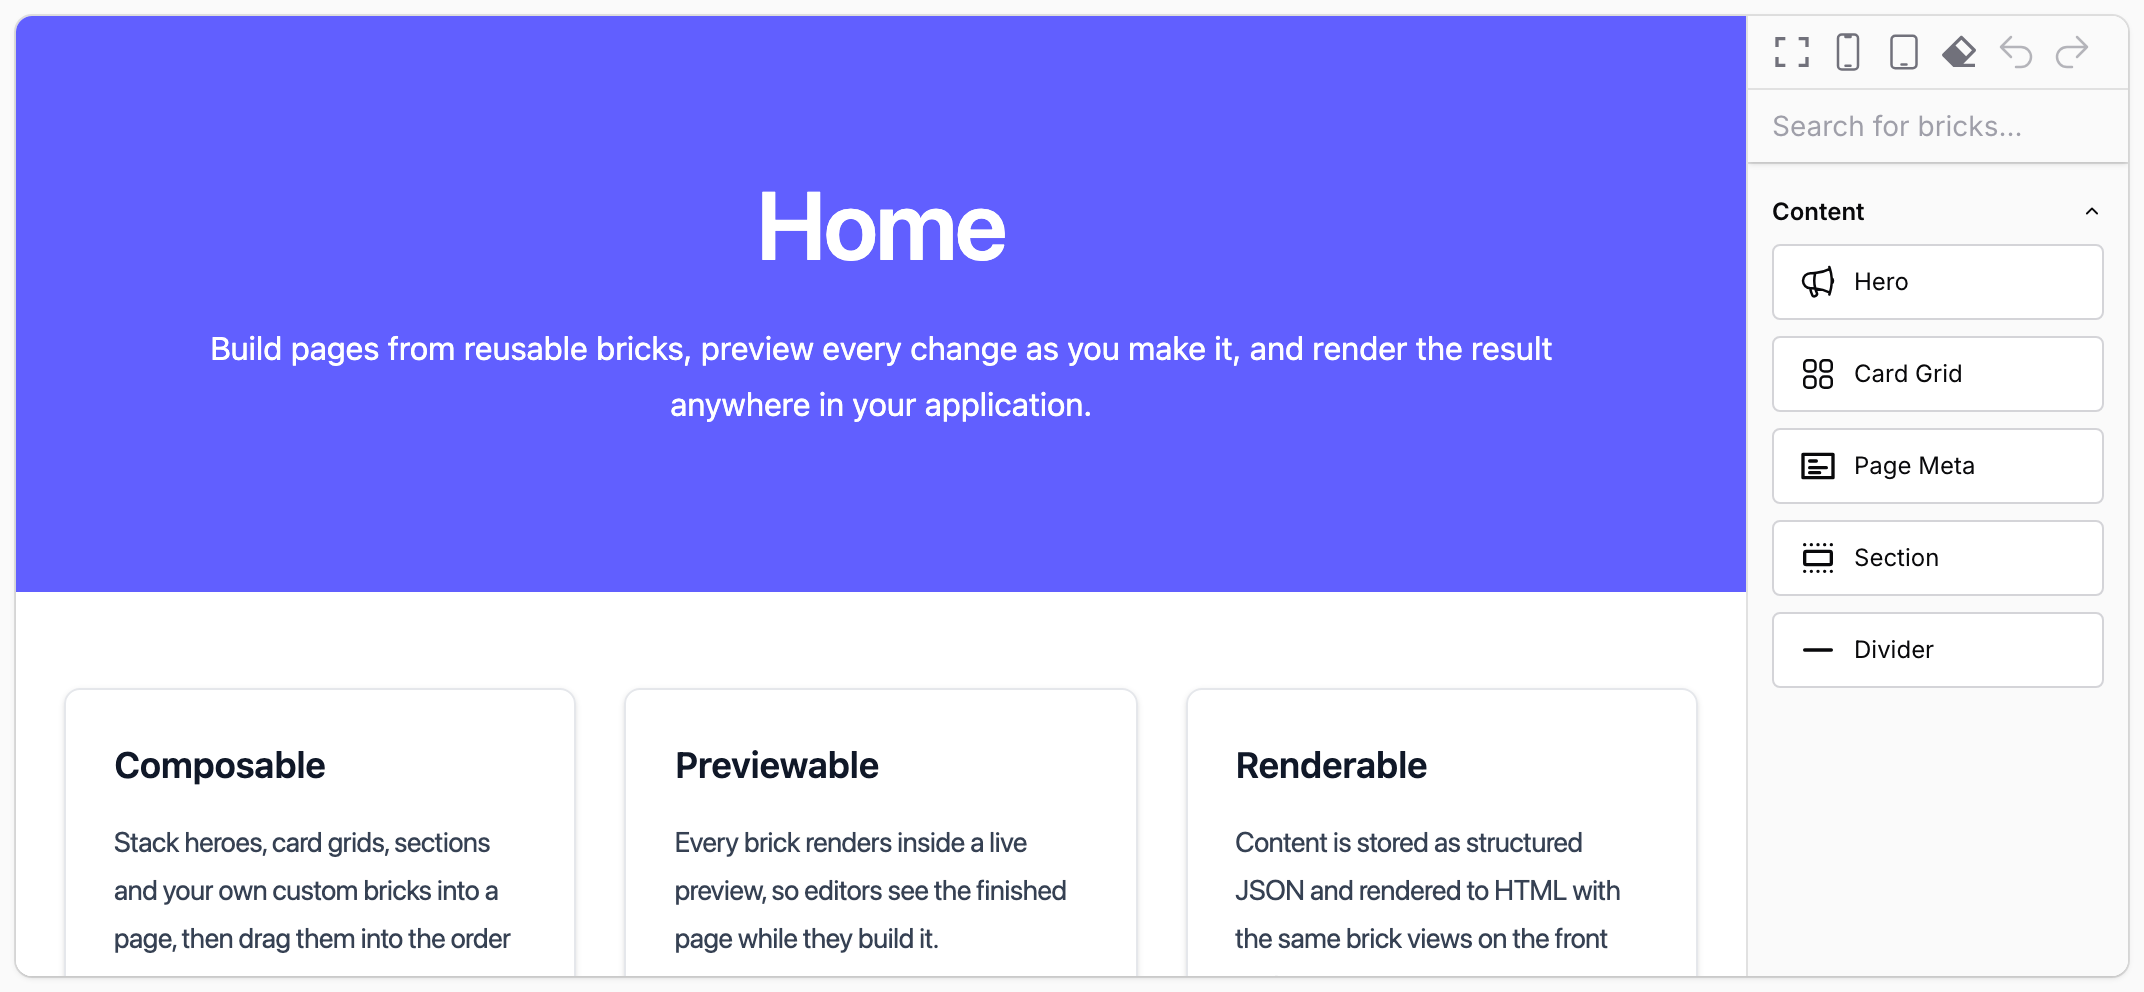
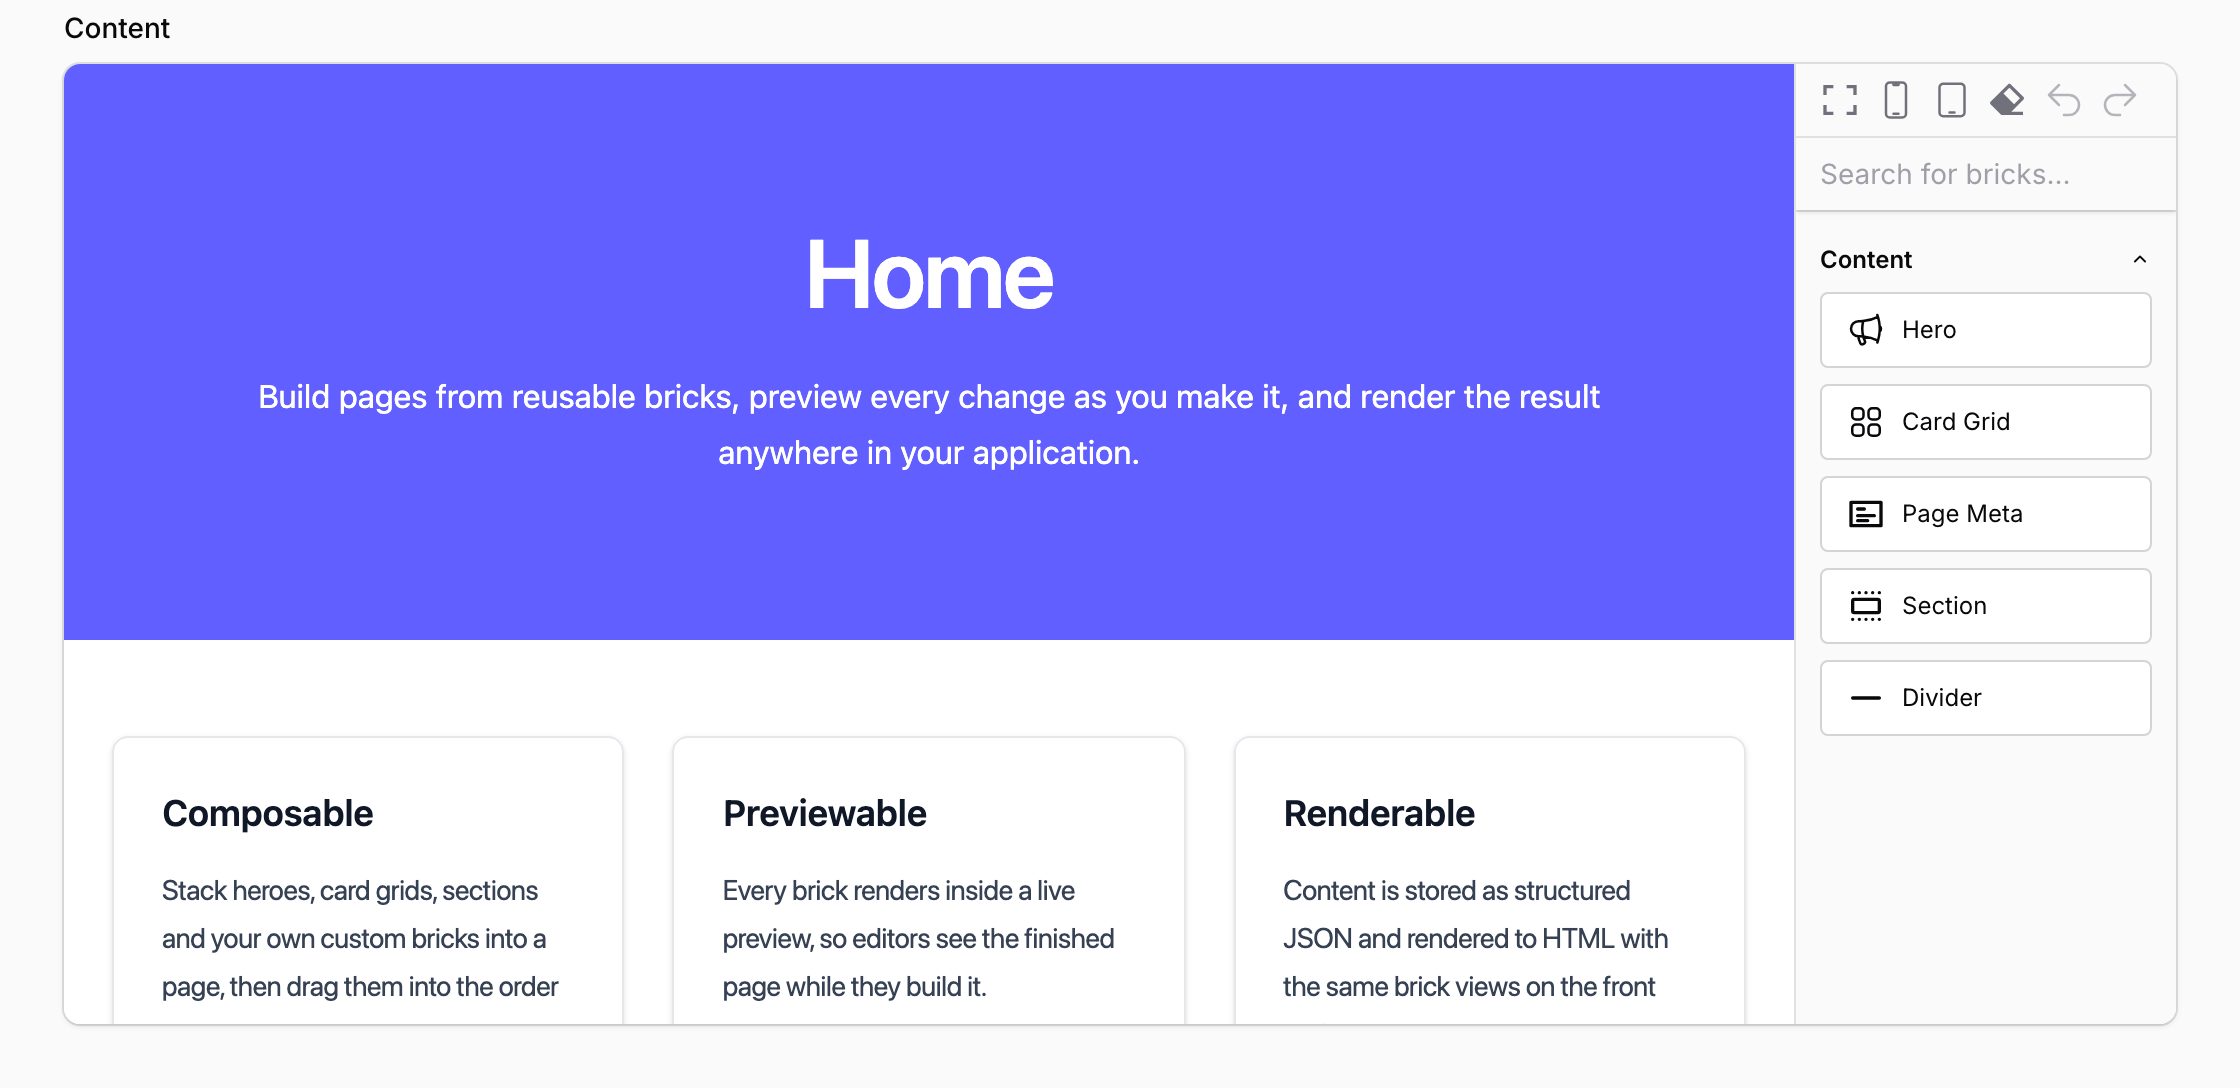
docs: use the default screenshot padding and hide the form actions
Drops the 8px padding overrides on the editor, mobile preview and entry
screenshots. The editor captures hide the form's Save and Cancel buttons
(visibility only, so the layout does not move) so the default padding
does not clip them.

diff --git a/focus.php b/focus.php
@@ -5,6 +5,7 @@ declare(strict_types=1);
 use Awcodes\Focus\Enums\Theme;
 use Awcodes\Focus\Screenshot;
 use Awcodes\Focus\ScreenshotSuite;
+use Playwright\Page\PageInterface;
 
 /*
  * Documentation screenshots for Mason, generated with awcodes/focus from the
@@ -15,13 +16,18 @@ use Awcodes\Focus\ScreenshotSuite;
 $preview = 'iframe.mason-iframe';
 $firstBlock = '.mason-block[data-block-index="0"]';
 
+// The form's Save and Cancel buttons sit just below the editor, inside the default padding.
+// Hidden rather than removed, so the layout and the framing do not move.
+$hideFormActions = fn (PageInterface $page): PageInterface => $page->addStyleTag([
+    'content' => '.fi-sc-actions:has([type="submit"]) { visibility: hidden !important; }',
+]);
+
 return ScreenshotSuite::make()
     ->screenshots([
         Screenshot::make('editor')
             ->visit('/admin/pages/1/edit')
-            ->focus('[data-focus="mason-editor"]')
-            // The field label sits just above and the form actions just below.
-            ->padding(8),
+            ->beforeCapture($hideFormActions)
+            ->focus('[data-focus="mason-editor"]'),
 
         Screenshot::make('brick-sidebar')
             ->visit('/admin/pages/1/edit')
@@ -45,8 +51,8 @@ return ScreenshotSuite::make()
         Screenshot::make('mobile-preview')
             ->visit('/admin/pages/1/edit')
             ->click('[data-focus="mason-sidebar"] [data-focus-action="mason-mobile"]')
-            ->focus('[data-focus="mason-editor"]')
-            ->padding(8),
+            ->beforeCapture($hideFormActions)
+            ->focus('[data-focus="mason-editor"]'),
 
         Screenshot::make('edit-brick')
             ->visit('/admin/pages/1/edit')
@@ -60,8 +66,7 @@ return ScreenshotSuite::make()
 
         Screenshot::make('entry')
             ->visit('/admin/pages/1')
-            ->focus('[data-focus="mason-entry"]')
-            ->padding(8),
+            ->focus('[data-focus="mason-entry"]'),
 
         Screenshot::make('rendered-page')
             ->visit('/pages/home')
